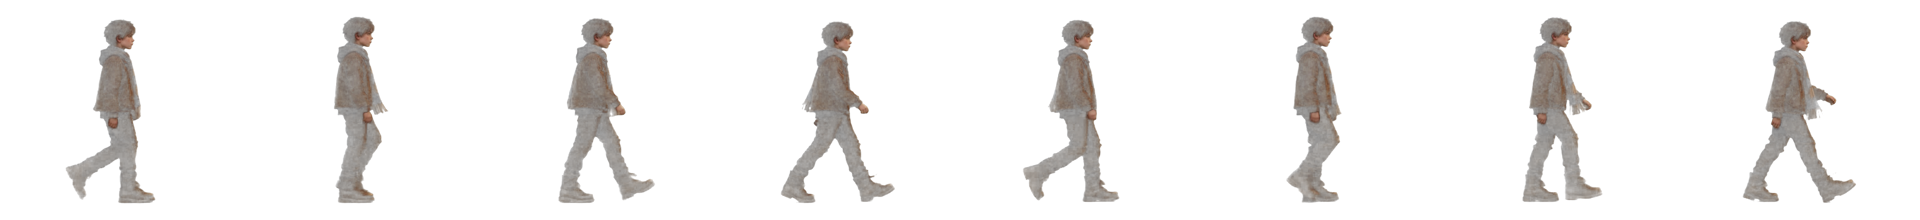
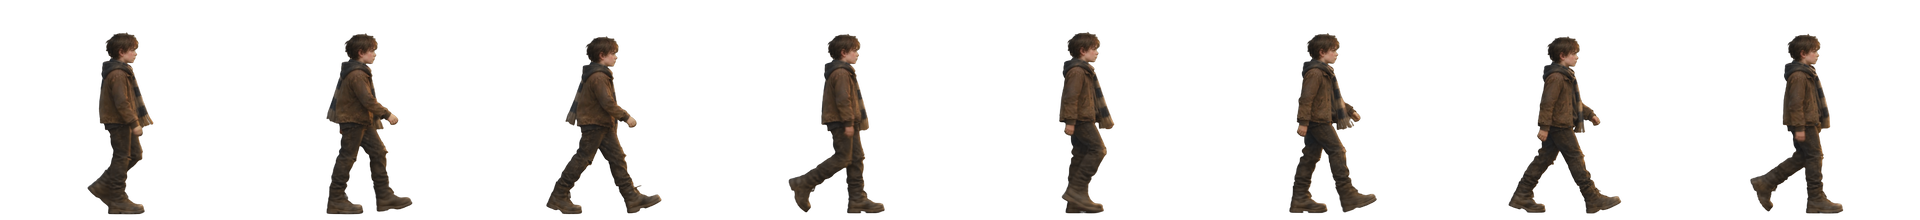
Recut walk cycles, add the farmer, tie walk speed to feet
- joseph_walk.png and farmer_walk.png: one full stride each (31 video
  frames, 8 frames per strip) from the same green-screen clip, so both
  loop with no jump and share the same lighting
- Joseph's walk frame follows the ground he covers (no foot sliding);
  idle, air and ladder poses use matching frames
- the farmer paces the yard in front of the barn in Level 0
- removed shape fallbacks: the game waits for the art to load

diff --git a/index.html b/index.html
@@ -25,16 +25,20 @@
 // Rootsapiens - a side-scrolling puzzle-platformer. Story: Omega Valley, Issue One.
 // Level 0 "The Kitchen Door": the cow that waits at the kitchen door every morning is not there; Joseph follows her out of the farm.
 // Level 1 "The Village Road": through the village at dawn, past the Ravens' truck, over the church wall to the mountain path.
-// No dialogue. Everything is drawn in code; no image or sound files. Add a level: push one more object into LEVELS.
+// No dialogue. Painted art in art/ (the walk cycles are cut from green-screen video); sound is synthesised. Add a level: push one more object into LEVELS.
 const cv = document.getElementById('c'), ctx = cv.getContext('2d');
 const W = 1280, H = 720, GROUND = 600;
-const C = { ink: '#141017', inkSoft: '#231c26', wood: '#3a2a22', straw: '#c9a24a', scarf: '#c8452f', skin: '#d9b08c', water: '#2c5f73', lamp: '#f6c873' };
-// art: painted images in art/ (or inlined as ART_DATA in the published build); every draw falls back to shapes until its image has loaded
-const ART = {};
-for (const n of ['bg_far.jpg', 'joseph_walk.png', 'cow_walk.png', 'p_farmhouse.png', 'p_barn.png', 'p_house.png', 'p_church.png', 'p_truck.png', 'p_crate.png', 'p_tree.png', 'p_wall.png', 'p_gate.png']) {
-  const im = new Image(); im.src = (window.ART_DATA && window.ART_DATA[n]) || 'art/' + n; ART[n.replace(/\.\w+$/, '')] = im;
+const C = { ink: '#141017', inkSoft: '#231c26', wood: '#3a2a22', straw: '#c9a24a', water: '#2c5f73', lamp: '#f6c873' };
+// art: painted images in art/ (or inlined as ART_DATA in the published build); the game starts drawing once all of them have loaded
+const ART = {}, artFailed = [];
+for (const n of ['bg_far.jpg', 'joseph_walk.png', 'farmer_walk.png', 'cow_walk.png', 'p_farmhouse.png', 'p_barn.png', 'p_house.png', 'p_church.png', 'p_truck.png', 'p_crate.png', 'p_tree.png', 'p_wall.png', 'p_gate.png']) {
+  const im = new Image(); im.onerror = () => artFailed.push(n); im.src = (window.ART_DATA && window.ART_DATA[n]) || 'art/' + n; ART[n.replace(/\.\w+$/, '')] = im;
 }
 const has = (n) => ART[n].complete && ART[n].naturalWidth > 0;
+const ready = () => Object.keys(ART).every(has);
+// walk cycles: 8 frames = one full stride, cut from the same video. perFrame = ground the planted foot covers per frame (strip px x scale), so the feet do not slide
+const JOSEPH = { k: 0.42, perFrame: 19 * 0.42 };    // joseph_walk.png: 240x220 frames, feet at y=213; frames 0/4 feet together, 2/6 longest stride, 3/7 one heel up
+const FARMER = { k: 0.41, perFrame: 24 * 0.41 };    // farmer_walk.png: 300x300 frames, feet at y=295; about 1.5x Joseph's height
 const prop = (n, x, bottom, w, h, f) => ctx.drawImage(f ? dark(n, f) : ART[n], x, bottom - h, w, h);
 const shade = {};   // darkened copies, made once (a canvas filter on every frame is slow)
 function dark(n, f) { const k = n + f; if (!shade[k]) { const im = ART[n], c = document.createElement('canvas'); c.width = im.width; c.height = im.height; const x = c.getContext('2d'); x.filter = f; x.drawImage(im, 0, 0); shade[k] = c; } return shade[k]; }
@@ -61,16 +65,16 @@ const LEVELS = [
     checkpoints: [230, 1080, 2020, 3160, 3820],
     animals: { goX: 4250, y: 480, list: [{ x: 4720, s: 1 }, { x: 4860, s: 0.9 }, { x: 5010, s: 1.05 }] },
     prints: [3480, 4480],
+    // the farmer paces the yard in front of the barn: 9 half-strides each way, so he stops with his feet together
+    walkers: [{ x0: 2020, x1: 2020 + 9 * 4 * FARMER.perFrame, speed: 61 }],
     decor() {
       // farmhouse with the lit kitchen door, and the rope with no cow on it
-      if (has('p_farmhouse')) prop('p_farmhouse', 10, GROUND + 8, 640, 424);
-      else { building(40, 520, 300, 120, C.inkSoft); win(400, GROUND - 210, 60); }
-      ctx.fillStyle = has('p_farmhouse') ? 'rgba(0,0,0,0)' : C.lamp; ctx.fillRect(196, GROUND - 150, 74, 150); ctx.fillStyle = 'rgba(246,200,115,0.18)'; ctx.beginPath(); ctx.moveTo(196, GROUND); ctx.lineTo(270, GROUND); ctx.lineTo(420, GROUND + 60); ctx.lineTo(120, GROUND + 60); ctx.fill();
+      prop('p_farmhouse', 10, GROUND + 8, 640, 424);
+      ctx.fillStyle = 'rgba(246,200,115,0.18)'; ctx.beginPath(); ctx.moveTo(196, GROUND); ctx.lineTo(270, GROUND); ctx.lineTo(420, GROUND + 60); ctx.lineTo(120, GROUND + 60); ctx.fill();
       ctx.strokeStyle = C.straw; ctx.lineWidth = 3; ctx.beginPath(); ctx.moveTo(310, GROUND - 60); ctx.quadraticCurveTo(350, GROUND - 6, 400, GROUND - 4); ctx.stroke();
       ctx.fillStyle = C.wood; ctx.fillRect(304, GROUND - 90, 10, 90);
       // barn: back wall, stalls, loft window, empty halter
-      if (has('p_barn')) prop('p_barn', 2130, GROUND + 6, 920, 664, 'brightness(0.42)');
-      else { ctx.fillStyle = '#2a2029'; ctx.fillRect(2200, GROUND - 400, 780, 400); ctx.beginPath(); ctx.moveTo(2170, GROUND - 400); ctx.lineTo(2590, GROUND - 560); ctx.lineTo(3010, GROUND - 400); ctx.fill(); ctx.fillStyle = '#e39a5a'; ctx.fillRect(2880, GROUND - 330, 70, 80); }
+      prop('p_barn', 2130, GROUND + 6, 920, 664, 'brightness(0.42)');
       ctx.fillStyle = C.wood; for (let i = 0; i < 4; i++) ctx.fillRect(2560 + i * 90, GROUND - 90, 8, 90); ctx.fillRect(2560, GROUND - 60, 278, 6);
       ctx.strokeStyle = C.straw; ctx.lineWidth = 3; ctx.beginPath(); ctx.moveTo(2700, GROUND - 60); ctx.lineTo(2700, GROUND - 22); ctx.stroke();
       ctx.fillStyle = C.straw; ctx.beginPath(); ctx.ellipse(2760, 372, 90, 26, 0, Math.PI, 0); ctx.fill();
@@ -103,25 +107,14 @@ const LEVELS = [
     decor() {
       // village houses with a few lit windows
       const hs = [[60, 300, 250, 90], [420, 240, 300, 70], [900, 360, 230, 110], [2380, 300, 260, 90], [2660, 420, 300, 80], [3000, 300, 240, 100]];
-      hs.forEach(([x, w, h, r], i) => {
-        if (has('p_house') && has('p_farmhouse')) { const n = i % 2 ? 'p_farmhouse' : 'p_house', im = ART[n], hh = h + r; prop(n, x, GROUND + 6, hh * im.width / im.height, hh, 'brightness(0.72)'); }
-        else { building(x, w, h, r, '#2a2230'); win(x + 40, GROUND - h + 50, 44); if (w > 280) win(x + w - 90, GROUND - h + 50, 44); }
-      });
+      hs.forEach(([x, , h, r], i) => { const n = i % 2 ? 'p_farmhouse' : 'p_house', im = ART[n], hh = h + r; prop(n, x, GROUND + 6, hh * im.width / im.height, hh, 'brightness(0.72)'); });
       // fountain
       ctx.fillStyle = C.inkSoft; ctx.fillRect(765, 470, 20, 90); ctx.beginPath(); ctx.ellipse(775, 470, 40, 10, 0, 0, 7); ctx.fill();
       ctx.strokeStyle = 'rgba(190,225,235,0.6)'; ctx.lineWidth = 2; for (const s of [-1, 1]) { ctx.beginPath(); ctx.moveTo(775, 462); ctx.quadraticCurveTo(775 + s * 40, 470 + Math.sin(G.t * 3) * 2, 775 + s * 50, 552); ctx.stroke(); }
-      // stacked wagons and the two roofs
-      if (!has('p_crate')) { ctx.fillStyle = C.wood; for (let i = 0; i < 3; i++) { ctx.fillRect(1492, 350 + i * 86, 76, 60); ctx.strokeStyle = C.ink; ctx.lineWidth = 5; ctx.beginPath(); ctx.arc(1508, 420 + i * 86, 14, 0, 7); ctx.arc(1552, 420 + i * 86, 14, 0, 7); ctx.stroke(); } }
-      if (!has('p_house')) for (const x of [1560, 2010]) { ctx.fillStyle = '#3a2a2e'; ctx.beginPath(); ctx.moveTo(x - 10, 340); ctx.lineTo(x + 150, 300); ctx.lineTo(x + 310, 340); ctx.fill(); win(x + 60, 420, 50); win(x + 190, 420, 50); }
       // arcade pillars: the dark places to stand
       for (const c of L.lights[0].covers) { ctx.fillStyle = '#0c090f'; ctx.fillRect(c.x, 360, c.w, 240); ctx.fillRect(c.x - 14, 350, c.w + 28, 18); }
-      // church: nave, tower, bell
-      if (has('p_church')) { prop('p_church', 3690, GROUND + 6, 610, 560); return; }
-      ctx.fillStyle = '#2a2230'; ctx.fillRect(3760, 330, 490, 270); ctx.beginPath(); ctx.moveTo(3740, 330); ctx.lineTo(4005, 210); ctx.lineTo(4270, 330); ctx.fill();
-      ctx.fillRect(4130, 110, 110, 220); ctx.beginPath(); ctx.moveTo(4120, 110); ctx.lineTo(4185, 40); ctx.lineTo(4250, 110); ctx.fill(); ctx.fillRect(4182, 10, 6, 40); ctx.fillRect(4170, 22, 30, 6);
-      ctx.fillStyle = '#e39a5a'; ctx.fillRect(4160, 150, 50, 70);
-      ctx.save(); ctx.translate(4185, 160); ctx.rotate(Math.sin(G.t * 4) * (L.bell.done ? 0.5 * Math.max(0, 1 - (G.t - L.bell.t) / 6) : 0)); ctx.fillStyle = C.ink; ctx.beginPath(); ctx.moveTo(-16, 44); ctx.quadraticCurveTo(-14, 6, 0, 4); ctx.quadraticCurveTo(14, 6, 16, 44); ctx.fill(); ctx.restore();
-      ctx.fillStyle = C.lamp; ctx.beginPath(); ctx.arc(3890, 420, 34, 0, 7); ctx.fill(); ctx.fillStyle = '#2a2230'; ctx.fillRect(3886, 386, 8, 68); ctx.fillRect(3856, 416, 68, 8);   // rose window
+      // church
+      prop('p_church', 3690, GROUND + 6, 610, 560);
     },
   },
 ];
@@ -136,6 +129,7 @@ function load(n) {
   for (const a of L.animals.list) { if (a.x0 === undefined) a.x0 = a.x; a.x = a.x0; }
   if (L.cat) { if (L.cat.x0 === undefined) L.cat.x0 = L.cat.x; L.cat.x = L.cat.x0; }
   if (L.bell) L.bell.done = false;
+  for (const w of L.walkers || []) Object.assign(w, { x: w.x0, dir: 1, d: 0, wait: 0 });
   Object.assign(P, { x: L.startX, y: GROUND - P.h, vx: 0, vy: 0, face: 1, state: 'idle', cp: 0, ground: true });
   Object.assign(G, { ended: 0, fade: 1, hint: 0, go: false, dead: 0, caught: false, cam: 0, splashT: 0 });
 }
@@ -218,7 +212,7 @@ function update(dt) {
   if (P.state !== 'ladder' && lz && (up() || (down() && !P.ground))) { P.state = 'ladder'; P.lad = lz; P.vx = P.vy = 0; P.x = lz.x + lz.w / 2 - P.w / 2; }
   if (P.state === 'ladder') {
     const l = P.lad, v = (down() ? 1 : 0) - (up() ? 1 : 0);
-    P.y += v * 150 * dt; P.phase += Math.abs(v) * dt * 9;
+    P.y += v * 150 * dt; P.phase += Math.abs(v) * 150 * dt / 26;   // one hand-over-hand per rung (26 px)
     if (P.y + P.h < l.y + 2) P.y = l.y - P.h - 2;                          // top: level with the floor beside it
     if (P.y + P.h >= GROUND) { P.y = GROUND - P.h; P.state = 'idle'; }
     if (dir && (P.y + P.h <= l.y + 4 || P.y + P.h >= GROUND - 4)) { P.state = 'idle'; P.vy = 0; }
@@ -259,8 +253,10 @@ function update(dt) {
     if (g.open < 1 && Math.abs(mid - g.x) < 110 && P.ground && grab()) { g.hold += dt; if (g.hold > 1.1) g.opening = true; } else if (!g.opening) g.hold = Math.max(0, g.hold - dt * 2);
     if (g.opening && g.open < 1) { g.open = Math.min(1, g.open + dt * 0.9); if (g.open >= 1) noise(0.2, 0.12, 500); }
   }
-  if (P.state !== 'mantle') P.state = !P.ground ? 'air' : held && dir ? 'pull' : Math.abs(P.vx) > 20 ? 'run' : 'idle';
-  if (P.state === 'run' || P.state === 'pull') { const o = P.phase; P.phase += Math.abs(P.vx) * dt * 0.045; if (Math.floor(o / Math.PI) !== Math.floor(P.phase / Math.PI)) step(); }
+  // the walk cycle advances by the ground actually covered (not by the key held), so the feet do not slide; a step sound at each heel strike (frames 2 and 6)
+  const moved = Math.abs(P.x - px0);
+  if (P.state !== 'mantle') P.state = !P.ground ? 'air' : held && dir ? 'pull' : moved > 20 * dt ? 'run' : 'idle';
+  if (P.state === 'run' || P.state === 'pull') { const o = P.phase; P.phase += moved / JOSEPH.perFrame; if (Math.floor((o + 2) / 4) !== Math.floor((P.phase + 2) / 4)) step(); }
   after(dt);
 }
 function after(dt) {
@@ -270,7 +266,7 @@ function after(dt) {
   if (G.splashT) { G.splashT += dt; if (G.splashT > 1) G.splashT = 0; }
   // the headlight: seen in the open while it is on = back to the last safe place
   for (const l of L.lights) if (!G.dead && lightOn(l) && mid > l.x0 && mid < l.x1 && P.y + P.h > 380 && !l.covers.some((c) => mid > c.x && mid < c.x + c.w)) { G.dead = 0.01; G.caught = true; tone(110, 0.5, 0.2, 'sawtooth'); }
-  if (L.bell && !L.bell.done && P.y < 260 && Math.abs(mid - L.bell.x) < 90) { L.bell.done = true; L.bell.t = G.t; bigBell(); }
+  if (L.bell && !L.bell.done && P.y < 260 && Math.abs(mid - L.bell.x) < 90) { L.bell.done = true; bigBell(); }
   if (P.x > L.animals.goX) G.go = true;
   animals(dt);
   if (P.x > L.endX && !G.ended) { G.ended = 0.01; bell(); }
@@ -278,6 +274,11 @@ function after(dt) {
   G.cam += (target - G.cam) * Math.min(1, dt * 3.2);
 }
 function animals(dt) {
+  for (const w of L.walkers || []) {            // the farmer: walks his stretch, stops with his feet together, turns
+    if (w.wait > 0) { w.wait -= dt; continue; }
+    const v = w.speed * w.dir * dt; w.x += v; w.d += Math.abs(v);
+    if ((w.dir > 0 && w.x >= w.x1) || (w.dir < 0 && w.x <= w.x0)) { w.x = Math.max(w.x0, Math.min(w.x1, w.x)); w.dir = -w.dir; w.d = 0; w.wait = 1.2; }
+  }
   if (L.cat && P.x > L.cat.goX) L.cat.x += 150 * dt;
   if (!G.go) return;
   for (const c of L.animals.list) c.x += 46 * c.s * dt;
@@ -290,39 +291,13 @@ function hills(par, base, amp, col, seed) {
   for (let x = 0; x <= W; x += 16) { const wx = x + G.cam * par; ctx.lineTo(x, base - amp * (Math.sin(wx * 0.0021 + seed) * 0.6 + Math.sin(wx * 0.0057 + seed * 2.3) * 0.4)); }
   ctx.lineTo(W, H); ctx.fill();
 }
-function tree(x, y, s, col) {
-  if (has('p_tree')) { prop('p_tree', x - 150 * s, y + 14, 300 * s, 258 * s, 'brightness(0.5) saturate(0.8)'); return; }
-  ctx.fillStyle = col; ctx.fillRect(x - 5 * s, y - 70 * s, 10 * s, 70 * s);
-  for (const [dx, dy, r] of [[0, -95, 46], [-34, -78, 34], [34, -80, 36], [8, -122, 30]]) { ctx.beginPath(); ctx.arc(x + dx * s, y + dy * s, r * s, 0, 7); ctx.fill(); }
-}
-function building(x, w, h, roof, col) {
-  ctx.fillStyle = col; ctx.fillRect(x, GROUND - h, w, h);
-  ctx.beginPath(); ctx.moveTo(x - 24, GROUND - h); ctx.lineTo(x + w / 2, GROUND - h - roof); ctx.lineTo(x + w + 24, GROUND - h); ctx.fill();
-}
-function win(x, y, s) { ctx.fillStyle = C.lamp; ctx.fillRect(x, y, s, s); ctx.fillStyle = C.inkSoft; ctx.fillRect(x + s / 2 - 2, y, 4, s); ctx.fillRect(x, y + s / 2 - 2, s, 4); }
-function background() {
-  if (has('bg_far')) {      // the painted valley; it slides a little, and the mountain is nearer in every level
-    const im = ART.bg_far, z = 1.25 + G.level * 0.18, w = W * z, h = w * im.height / im.width;
-    ctx.fillStyle = C.ink; ctx.fillRect(0, 0, W, H);
-    ctx.drawImage(im, -Math.min(w - W, G.cam * 0.05) - G.level * 60, -150 - G.level * 90, w, h);
-    for (let i = -1; i < 14; i++) { const wx = i * 520 + 180, x = wx - G.cam * 0.45; if (x > -260 && x < W + 260) tree(x, 590, 1.25, '#2b2333'); }
-    hills(0.6, 600, 18, '#1b1520', 7.7);
-    return;
-  }
-  const k = G.level * 0.12;   // each level is a little later in the morning
-  const g = ctx.createLinearGradient(0, 0, 0, H); g.addColorStop(0, k ? '#2a3458' : '#1b2440'); g.addColorStop(0.45, k ? '#86607a' : '#6a4a63'); g.addColorStop(0.72, '#e08a4f'); g.addColorStop(1, '#f3c57a');
-  ctx.fillStyle = g; ctx.fillRect(0, 0, W, H);
-  const sx = 980 - G.cam * 0.03, sy = 470 - G.level * 70 - Math.min(60, G.t * 1.5);
-  const sg = ctx.createRadialGradient(sx, sy, 10, sx, sy, 330); sg.addColorStop(0, 'rgba(255,236,190,0.95)'); sg.addColorStop(0.12, 'rgba(255,200,120,0.55)'); sg.addColorStop(1, 'rgba(255,170,90,0)');
-  ctx.fillStyle = sg; ctx.fillRect(0, 0, W, H);
-  // the mountain, with the dark mouth of the cave; it is nearer in every level
-  const ms = 1 + G.level * 0.35, mx = 760 - G.cam * 0.06, by = 560;
-  ctx.fillStyle = '#3a3552'; ctx.beginPath();
-  for (const [dx, dy] of [[-620, 0], [-260, -310], [-120, -260], [0, -410], [170, -270], [300, -300], [700, 0]]) ctx.lineTo(mx + dx * ms, by + dy * ms);
-  ctx.fill(); ctx.fillStyle = '#211d33'; ctx.beginPath(); ctx.ellipse(mx + 40 * ms, by - 230 * ms, 26 * ms, 34 * ms, 0, 0, 7); ctx.fill();
-  hills(0.15, 520, 46, '#4b3c55', 1.3 + G.level); hills(0.3, 560, 40, '#3b2f44', 4.1 + G.level);
-  for (let i = -1; i < 14; i++) { const wx = i * 520 + 180, x = wx - G.cam * 0.45; if (x > -200 && x < W + 200) tree(x, 590, 1.25, '#2b2333'); }
-  hills(0.6, 600, 18, '#251e2c', 7.7);
+const tree = (x, y, s) => prop('p_tree', x - 150 * s, y + 14, 300 * s, 258 * s, 'brightness(0.5) saturate(0.8)');
+function background() {     // the painted valley; it slides a little, and the mountain is nearer in every level
+  const im = ART.bg_far, z = 1.25 + G.level * 0.18, w = W * z, h = w * im.height / im.width;
+  ctx.fillStyle = C.ink; ctx.fillRect(0, 0, W, H);
+  ctx.drawImage(im, -Math.min(w - W, G.cam * 0.05) - G.level * 60, -150 - G.level * 90, w, h);
+  for (let i = -1; i < 14; i++) { const wx = i * 520 + 180, x = wx - G.cam * 0.45; if (x > -260 && x < W + 260) tree(x, 590, 1.25); }
+  hills(0.6, 600, 18, '#1b1520', 7.7);
 }
 function world() {
   ctx.save(); ctx.translate(-Math.round(G.cam), 0);
@@ -345,20 +320,18 @@ function world() {
   // solids
   for (const s of solids) {
     if (s.kind === 'ground' && L.pits.length === 0) { ctx.fillStyle = C.ink; ctx.fillRect(s.x, s.y, s.w, s.h); continue; }
-    if (s.kind === 'house' && has('p_house')) { prop('p_house', s.x - 14, s.y + s.h + 6, s.w + 28, s.h + 26); continue; }
-    if (s.kind === 'truck' && has('p_truck')) { if (s.w === 150) prop('p_truck', 3326, GROUND + 8, 276, 153); continue; }
-    if ((s.kind === 'wall' || s.kind === 'stone') && has('p_wall')) {
-      if (s.x === 1500 && has('p_crate')) { for (let i = 0; i < 3; i++) prop('p_crate', s.x - 14, s.y + (i + 1) * 87, 88, 87); }
+    if (s.kind === 'house') { prop('p_house', s.x - 14, s.y + s.h + 6, s.w + 28, s.h + 26); continue; }
+    if (s.kind === 'truck') { if (s.w === 150) prop('p_truck', 3326, GROUND + 8, 276, 153); continue; }
+    if (s.kind === 'wall' || s.kind === 'stone') {
+      if (s.x === 1500) { for (let i = 0; i < 3; i++) prop('p_crate', s.x - 14, s.y + (i + 1) * 87, 88, 87); }   // the stacked wagons
       else ctx.drawImage(ART.p_wall, 0, 0, ART.p_wall.width, Math.min(ART.p_wall.height, ART.p_wall.width * s.h / (s.w + 16)), s.x - 8, s.y - 4, s.w + 16, s.h + 8);
       continue;
     }
-    ctx.fillStyle = s.kind === 'loft' || s.kind === 'barndoor' ? C.wood : s.kind === 'house' ? '#241b25' : s.kind === 'truck' ? '#1d2620' : C.ink; ctx.fillRect(s.x, s.y, s.w, s.h);
-    if (s.kind === 'wall' || s.kind === 'stone') { ctx.strokeStyle = 'rgba(255,255,255,0.06)'; ctx.lineWidth = 2; for (let y = s.y + 22; y < s.y + s.h; y += 24) { ctx.beginPath(); ctx.moveTo(s.x, y); ctx.lineTo(s.x + s.w, y); ctx.stroke(); } }
+    ctx.fillStyle = s.kind === 'loft' || s.kind === 'barndoor' ? C.wood : C.ink; ctx.fillRect(s.x, s.y, s.w, s.h);
     if (s.kind === 'barndoor') { ctx.strokeStyle = C.ink; ctx.lineWidth = 4; ctx.beginPath(); ctx.moveTo(s.x, s.y); ctx.lineTo(s.x + s.w, s.y + s.h); ctx.moveTo(s.x + s.w, s.y); ctx.lineTo(s.x, s.y + s.h); ctx.stroke(); }
   }
-  // the truck's wheels and its headlight
+  // the truck's headlight
   for (const l of L.lights) {
-    ctx.fillStyle = '#0a0a0a'; for (const wx of has('p_truck') ? [] : [3400, 3540]) { ctx.beginPath(); ctx.arc(wx, 588, 24, 0, 7); ctx.fill(); }
     const c = G.t % (l.on + l.off), on = c > l.off, warn = !on && c > l.off - 0.6;
     ctx.fillStyle = on ? '#fff2c0' : warn && Math.floor(G.t * 14) % 2 ? '#c9a24a' : '#3a3320'; ctx.beginPath(); ctx.arc(l.src[0], l.src[1], 10, 0, 7); ctx.fill();
     if (on) {
@@ -369,33 +342,19 @@ function world() {
   }
   // gates
   for (const g of gates) {
-    const gy = g.y - g.open * 170;
-    if (has('p_gate')) { const k = 1 - g.open * 0.86; ctx.save(); ctx.translate(g.x + 160, 0); ctx.scale(k, 1); prop('p_gate', -290, g.y + g.h + 4, 290, 174); ctx.restore(); }   // it swings open on its right post
-    else { ctx.fillStyle = C.wood; ctx.fillRect(g.x - 8, g.y - 190, 10, 370); ctx.fillRect(g.x, gy, g.w, g.h); ctx.fillStyle = C.ink; for (let i = 0; i < 4; i++) ctx.fillRect(g.x - 60, gy + 20 + i * 40, 120, 8); }
+    const k = 1 - g.open * 0.86; ctx.save(); ctx.translate(g.x + 160, 0); ctx.scale(k, 1); prop('p_gate', -290, g.y + g.h + 4, 290, 174); ctx.restore();   // it swings open on its right post
     if (g.hold > 0 && g.open < 1) { ctx.strokeStyle = C.lamp; ctx.lineWidth = 5; ctx.beginPath(); ctx.arc(g.x + 12, g.y - 30, 16, -Math.PI / 2, -Math.PI / 2 + Math.min(1, g.hold / 1.1) * Math.PI * 2); ctx.stroke(); }
   }
-  for (const c of crates) {
-    if (has('p_crate')) { prop('p_crate', c.x - 2, c.y + c.h + 1, c.w + 4, c.h + 3); continue; }
-    ctx.fillStyle = C.wood; ctx.fillRect(c.x, c.y, c.w, c.h); ctx.strokeStyle = C.ink; ctx.lineWidth = 4; ctx.strokeRect(c.x + 2, c.y + 2, c.w - 4, c.h - 4);
-    ctx.beginPath(); ctx.moveTo(c.x + 4, c.y + 4); ctx.lineTo(c.x + c.w - 4, c.y + c.h - 4); ctx.stroke();
-  }
+  for (const c of crates) prop('p_crate', c.x - 2, c.y + c.h + 1, c.w + 4, c.h + 3);
   for (const c of L.animals.list) cow(c.x, L.animals.y, c.s, G.go ? G.t * 5 * c.s : 0);
   if (L.cat) cat(L.cat.x, topAt(L.cat.x), P.x > L.cat.goX ? G.t * 12 : 0);
+  for (const w of L.walkers || []) farmer(w);
   boy();
   // grass in front
   ctx.fillStyle = '#0d0a10'; for (let x = Math.floor(G.cam / 38) * 38 - 38; x < G.cam + W + 38; x += 38) { if (inPit(x + 6)) continue; const y = topAt(x + 6); ctx.beginPath(); ctx.moveTo(x, y + 2); ctx.lineTo(x + 6, y - 12 - (x * 7 % 9)); ctx.lineTo(x + 12, y + 2); ctx.fill(); }
   ctx.restore();
 }
-function cow(x, y, s, ph) {
-  if (has('cow_walk')) { const f = Math.floor(ph * 1.3) % 8, w = 170 * s, h = 130 * s; ctx.drawImage(ART.cow_walk, f * 200 + 26, 0, 170, 130, x - w * 0.55, y - h * 0.93, w, h); return; }
-  ctx.save(); ctx.translate(x, y); ctx.scale(s, s); ctx.fillStyle = C.ink;
-  ctx.beginPath(); ctx.ellipse(0, -62, 62, 30, 0, 0, 7); ctx.fill(); ctx.beginPath(); ctx.ellipse(66, -78, 22, 16, -0.3, 0, 7); ctx.fill();
-  ctx.fillRect(74, -100, 5, 14); ctx.fillRect(58, -100, 5, 12);
-  for (const [lx, o] of [[-40, 0], [-22, Math.PI], [26, Math.PI], [44, 0]]) { ctx.save(); ctx.translate(lx, -44); ctx.rotate(Math.sin(ph + o) * 0.35); ctx.fillRect(-5, 0, 10, 46); ctx.restore(); }
-  ctx.strokeStyle = C.ink; ctx.lineWidth = 4; ctx.beginPath(); ctx.moveTo(-60, -70); ctx.quadraticCurveTo(-80, -50, -72 + Math.sin(ph) * 6, -24); ctx.stroke();
-  ctx.fillStyle = C.lamp; ctx.beginPath(); ctx.arc(54, -56 + Math.abs(Math.sin(ph)) * 3, 5, 0, 7); ctx.fill();
-  ctx.restore();
-}
+function cow(x, y, s, ph) { const f = Math.floor(ph * 1.3) % 8, w = 170 * s, h = 130 * s; ctx.drawImage(ART.cow_walk, f * 200 + 26, 0, 170, 130, x - w * 0.55, y - h * 0.93, w, h); }
 function cat(x, y, ph) {           // "a cat who knows where it's going"
   ctx.save(); ctx.translate(x, y); ctx.fillStyle = C.ink;
   ctx.beginPath(); ctx.ellipse(0, -18, 20, 9, 0, 0, 7); ctx.fill(); ctx.beginPath(); ctx.arc(20, -24, 8, 0, 7); ctx.fill();
@@ -404,26 +363,15 @@ function cat(x, y, ph) {           // "a cat who knows where it's going"
   ctx.strokeStyle = C.ink; ctx.lineWidth = 4; ctx.beginPath(); ctx.moveTo(-19, -20); ctx.quadraticCurveTo(-34, -30, -30, -46 + Math.sin(ph * 0.5) * 3); ctx.stroke();
   ctx.restore();
 }
-function boy() {
-  const cx = P.x + P.w / 2, fy = P.y + P.h, f = P.face, run = P.state === 'run' || P.state === 'pull';
-  if (has('joseph_walk')) {          // his painted walk cycle: 8 frames of 240x220, feet at y=213
-    const fr = run ? Math.floor(P.phase / (Math.PI / 4)) % 8 : P.state === 'air' ? 4 : P.state === 'ladder' ? (Math.floor(P.phase) % 2 ? 2 : 6) : 2, k = 0.42;
-    ctx.save(); ctx.translate(cx, fy + 3); ctx.scale(f, 1); if (P.state === 'pull') ctx.rotate(-0.12);
-    ctx.drawImage(ART.joseph_walk, fr * 240, 0, 240, 220, -120 * k, -213 * k, 240 * k, 220 * k); ctx.restore(); return;
-  }
-  const sw = run ? Math.sin(P.phase) : P.state === 'air' ? 0.7 : P.state === 'ladder' ? Math.sin(P.phase) : 0;
-  const lean = run ? 0.12 * f : P.state === 'pull' ? -0.2 * f : 0, bob = run ? Math.abs(Math.cos(P.phase)) * 3 : Math.sin(G.t * 2) * 0.8;
-  ctx.save(); ctx.translate(cx, fy - bob); ctx.rotate(lean);
-  ctx.strokeStyle = '#1c1820'; ctx.lineCap = 'round'; ctx.lineWidth = 9;
-  for (const s of [1, -1]) { const a = sw * s * 0.7; ctx.beginPath(); ctx.moveTo(0, -30); ctx.lineTo(Math.sin(a) * 14, -15); ctx.lineTo(Math.sin(a) * 22 - f * Math.max(0, -Math.cos(a + 1.2)) * 6, 0); ctx.stroke(); }
-  ctx.fillStyle = '#4a3a2c'; ctx.beginPath(); ctx.roundRect(-10, -54, 20, 28, 7); ctx.fill();
-  ctx.lineWidth = 7; ctx.strokeStyle = '#4a3a2c';
-  const armUp = P.state === 'mantle' || P.state === 'ladder';
-  for (const s of [1, -1]) { const a = armUp ? -2.6 : P.state === 'pull' ? 1.2 * f : -sw * s * 0.8; ctx.beginPath(); ctx.moveTo(0, -48); ctx.lineTo(Math.sin(a) * 16, -48 + Math.cos(a) * 18); ctx.stroke(); }
-  ctx.fillStyle = C.scarf; ctx.beginPath(); ctx.roundRect(-9, -57, 18, 7, 3); ctx.fill(); ctx.fillRect(-f * 9 - 2, -55, 5, 15 + sw * 2);
-  ctx.fillStyle = C.skin; ctx.beginPath(); ctx.arc(f * 1.5, -66, 9.5, 0, 7); ctx.fill();
-  ctx.fillStyle = '#231a16'; ctx.beginPath(); ctx.arc(f * 0.5, -69, 10, Math.PI * 0.95, Math.PI * 2.05); ctx.fill();
-  ctx.restore();
+function boy() {     // walking: the frame follows the ground covered; standing: feet together; in the air: longest stride; ladder: one heel up, alternating per rung
+  const fr = P.state === 'run' || P.state === 'pull' ? Math.floor(P.phase) % 8 : P.state === 'air' || P.state === 'mantle' ? 2 : P.state === 'ladder' ? (Math.floor(P.phase) % 2 ? 3 : 7) : 0, k = JOSEPH.k;
+  ctx.save(); ctx.translate(P.x + P.w / 2, P.y + P.h + 3); ctx.scale(P.face, 1); if (P.state === 'pull') ctx.rotate(-0.12);
+  ctx.drawImage(ART.joseph_walk, fr * 240, 0, 240, 220, -120 * k, -213 * k, 240 * k, 220 * k); ctx.restore();
+}
+function farmer(w) {   // same video and cut as Joseph; darkened like the other props; feet together while he stands
+  const fr = w.wait > 0 ? 0 : Math.floor(w.d / FARMER.perFrame) % 8, k = FARMER.k;
+  ctx.save(); ctx.translate(w.x, GROUND + 3); ctx.scale(w.dir, 1);
+  ctx.drawImage(dark('farmer_walk', 'brightness(0.72)'), fr * 300, 0, 300, 300, -150 * k, -295 * k, 300 * k, 300 * k); ctx.restore();
 }
 function overlay() {
   const v = ctx.createRadialGradient(W / 2, H / 2, 300, W / 2, H / 2, 760); v.addColorStop(0, 'rgba(0,0,0,0)'); v.addColorStop(1, 'rgba(8,5,12,0.62)'); ctx.fillStyle = v; ctx.fillRect(0, 0, W, H);
@@ -452,7 +400,12 @@ function overlay() {
 load(Math.max(0, Math.min(LEVELS.length - 1, parseInt(location.hash.slice(1), 10) || 0)));   // index.html#1 starts at Level 1
 let last = performance.now(), acc = 0;
 function frame(now) {
-  acc += Math.min(0.1, (now - last) / 1000); last = now;
+  if (!ready()) {        // nothing is drawn in shapes any more: wait for the art (say which file, if one is missing)
+    ctx.fillStyle = '#05070a'; ctx.fillRect(0, 0, W, H); ctx.fillStyle = '#d8c79f'; ctx.textAlign = 'center'; ctx.font = '500 22px sans-serif';
+    ctx.fillText(artFailed.length ? 'Missing art: ' + artFailed.join(', ') : 'Loading…', W / 2, H / 2);
+    last = now; requestAnimationFrame(frame); return;
+  }
+  acc +=Math.min(0.1, (now - last) / 1000); last = now;
   while (acc >= 1 / 120) { update(1 / 120); acc -= 1 / 120; }
   background(); world(); overlay();
   requestAnimationFrame(frame);
